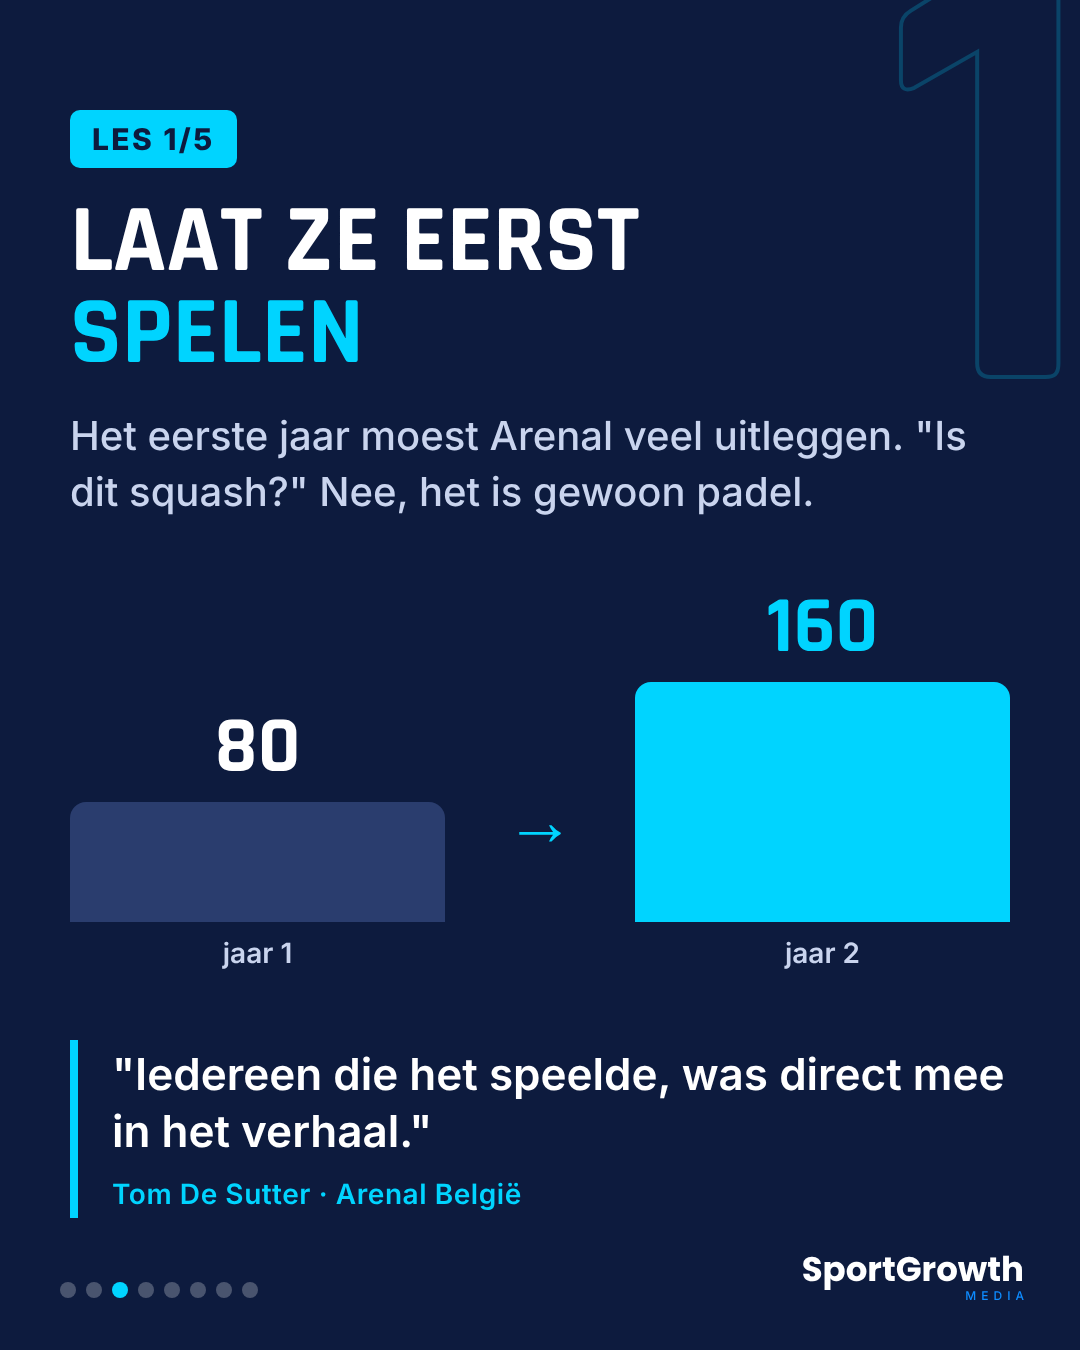
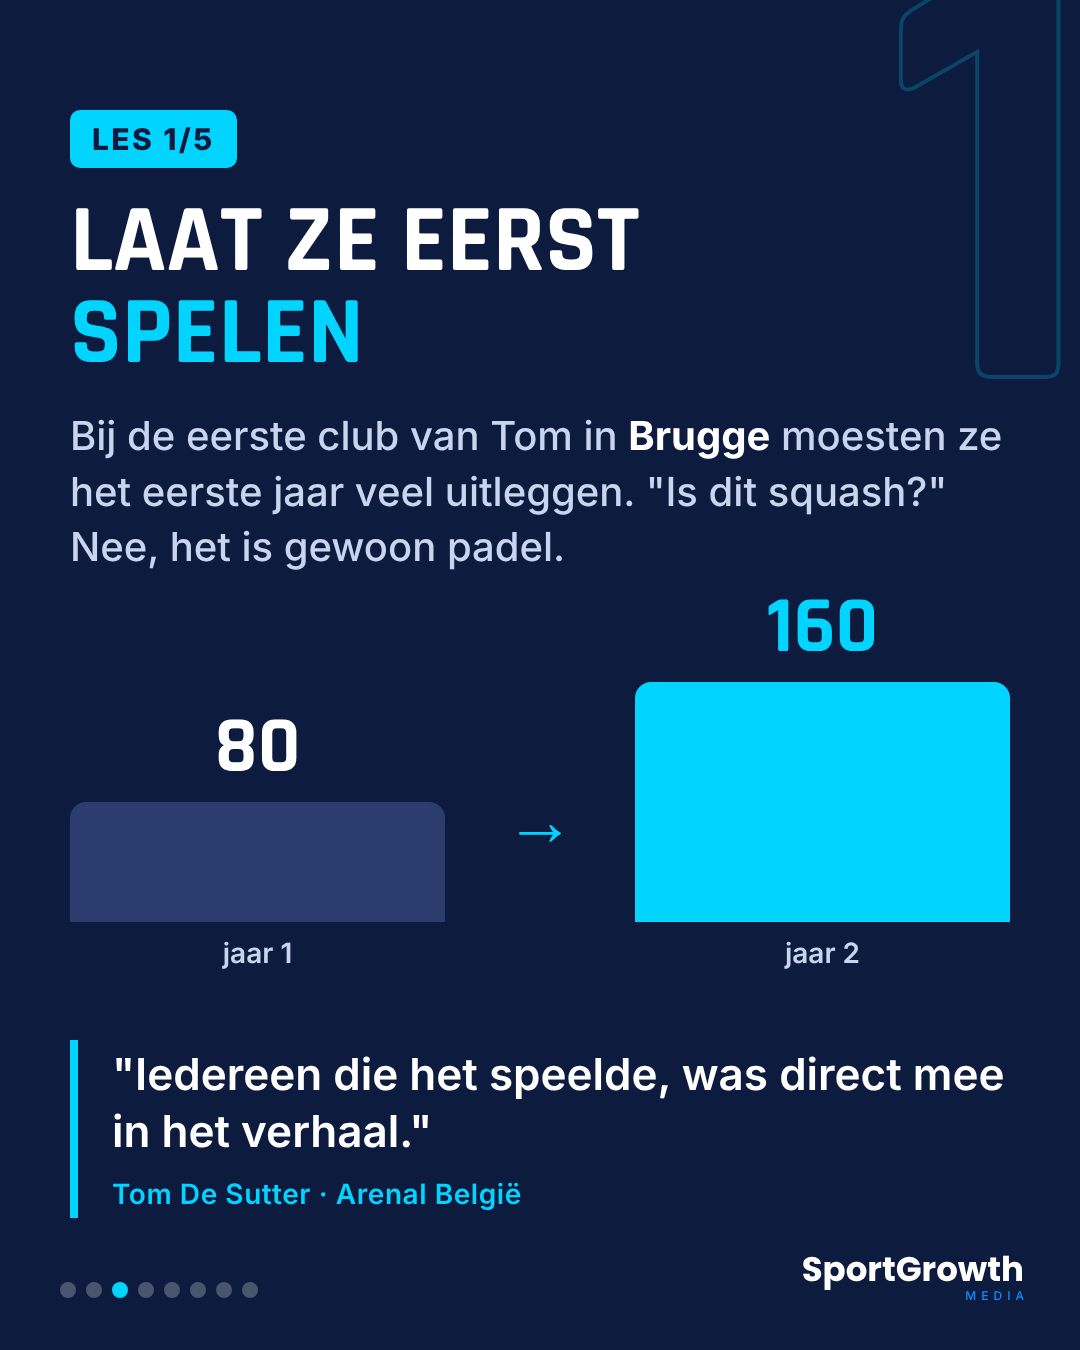
Carrousel hype: 80->160 leden = eerste club Tom in Brugge
Claude-Session: https://claude.ai/code/session_01QkSWZzWLTduRQtPp2zathG

Changed region(s): [[0.0611, 0.3111, 0.9472, 0.4356]]

diff --git a/instagram/carrousel-hype-gewoonte/build.js b/instagram/carrousel-hype-gewoonte/build.js
@@ -64,7 +64,7 @@ S.push(page(3, `
 <div class="col" style="top:110px">
 <span class="tag">LES 1/5</span>
 <h2>Laat ze eerst<br><span class="c">spelen</span></h2>
-<p class="t">Het eerste jaar moest Arenal veel uitleggen. "Is dit squash?" Nee, het is gewoon padel.</p>
+<p class="t">Bij de eerste club van Tom in <b>Brugge</b> moesten ze het eerste jaar veel uitleggen. "Is dit squash?" Nee, het is gewoon padel.</p>
 </div>
 <div style="position:absolute;left:70px;right:70px;top:640px;height:330px;display:flex;align-items:flex-end;gap:60px">
 <div style="flex:1;display:flex;flex-direction:column;align-items:center;gap:14px"><span style="font:700 80px/1 Rj">80</span><div style="width:100%;height:120px;background:#2a3d6e;border-radius:16px 16px 0 0"></div><span style="font:600 28px In;color:#c9d4ee">jaar 1</span></div>

diff --git a/klanten/flaxx/interviews.md b/klanten/flaxx/interviews.md
@@ -110,7 +110,7 @@ Tom: "Ik denk: als je zorgt voor beleving op je club, als je zorgt voor kwalitei
 ### P3 · Tom De Sutter over de beginjaren (IMG_2917) ⭐
 Tom: "Het eerste jaar moesten we nog heel veel uitleg geven: hoe speel je het spel, wat moet je doen."
 Ine: "Het is geen tennis, hè?"
-Tom: "Nee, het is geen tennis. En veel mensen dachten ook: is dit squash, een combinatie van tennis en squash? Nee, het is gewoon padel. We merkten het ook in onze eerste club: we hadden een 80 leden, het jaar erop 160 leden. Dus we hadden een mooie verdubbeling van het aantal leden. Iedereen die het speelde, was direct mee in het verhaal."
+Tom: "Nee, het is geen tennis. En veel mensen dachten ook: is dit squash, een combinatie van tennis en squash? Nee, het is gewoon padel. We merkten het ook in onze eerste club: we hadden een 80 leden, het jaar erop 160 leden. (= eerste club van Tom, in Brugge) Dus we hadden een mooie verdubbeling van het aantal leden. Iedereen die het speelde, was direct mee in het verhaal."
 - Carrousel ma 2/11: les "Uitleg en een eerste keer spelen = de beste marketing" met het cijfer 80 → 160 leden (verdubbeling in 1 jaar).
 - Cijfer = sterke cover-kandidaat ("Van 80 naar 160 leden in één jaar").
 
